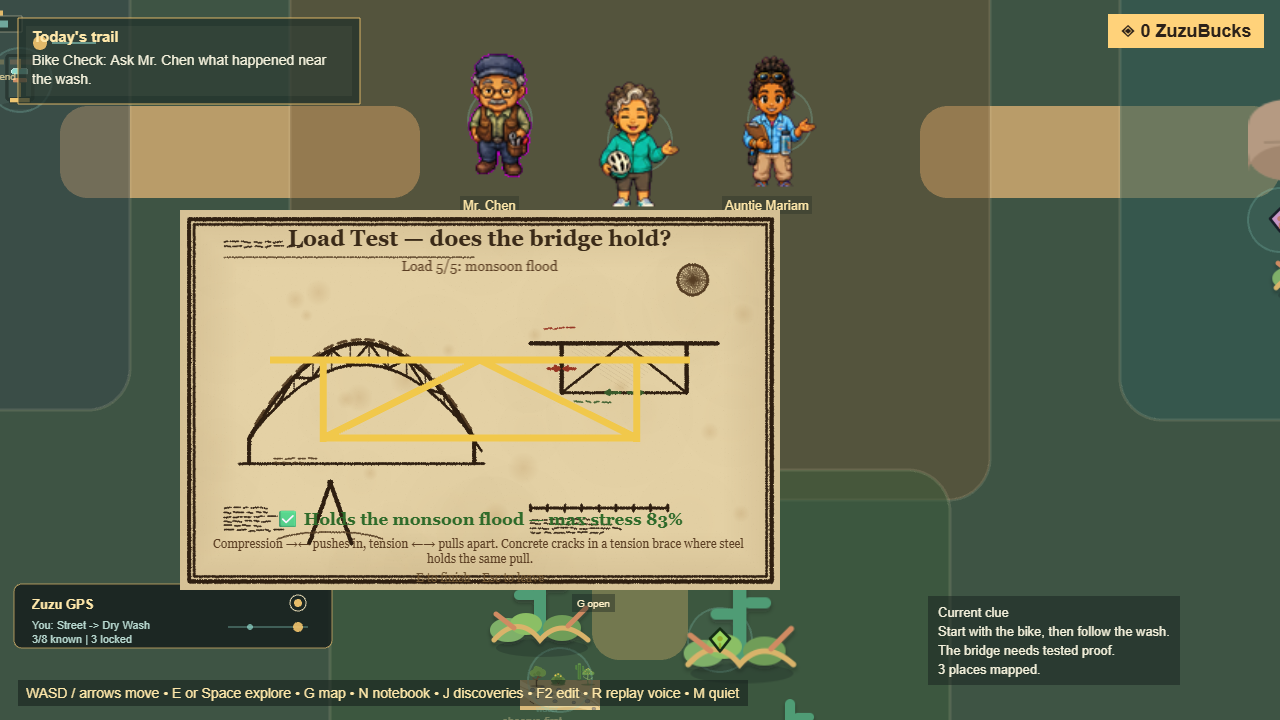
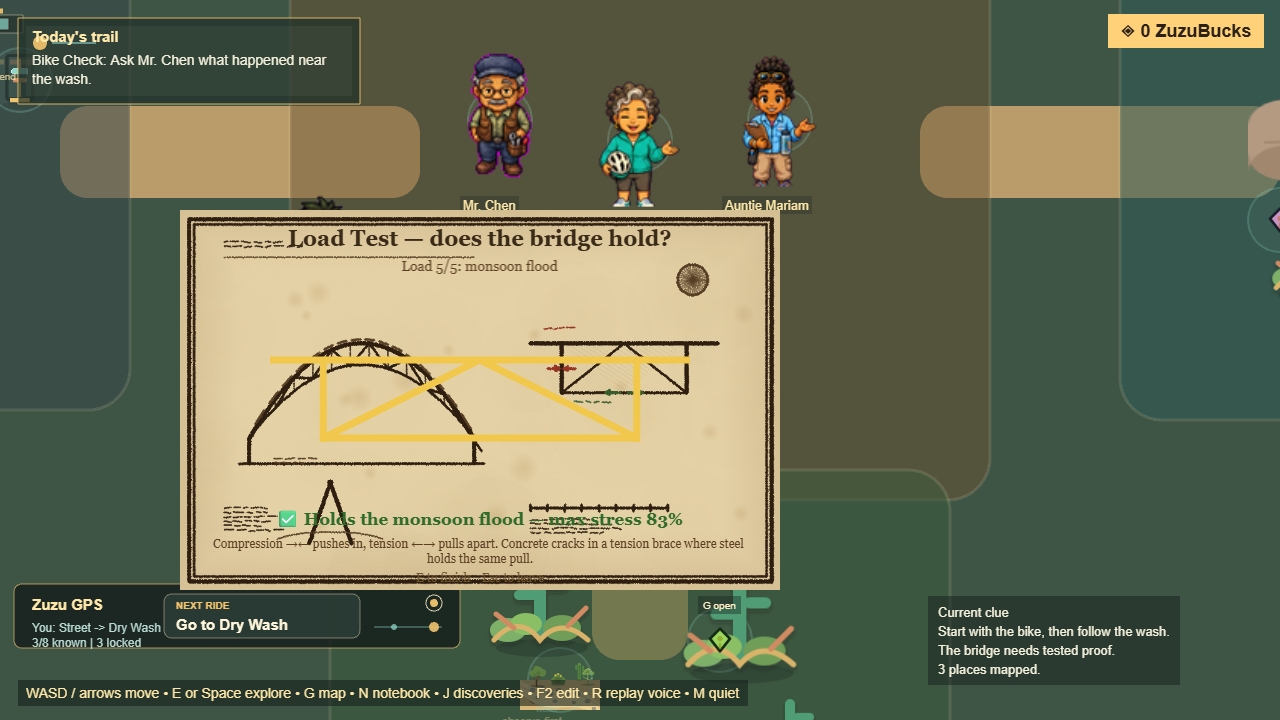
feat(utm): material identity in the player-facing predict-then-test modal
The previous UTM visual work only touched the ambient neighbourhood rig; the
sample the player actually watches in the predict-then-test modal
(PredictionScene) was still a generic blue/green/gold/red bar — every material
looked the same.

- Extracted MATERIAL_VIS + drawMaterialTexture into shared materialVisuals.js
  (NeighborhoodScene now imports it instead of a local copy).
- PredictionScene beam: fill = material family colour + procedural texture
  (beamGrain, tweened with the beam so grain bends/droops under load); verdict
  moved to the beam outline; on failure the bar snaps into material-coloured
  halves with red fracture edges (was two generic red bars).
- Verified against real modal captures: bamboo (green, segmented), steel
  (silver sheen, green 'held' outline), concrete (gray halves snapped in a V,
  red edges). Build clean; phase1-utm-predict + Escape-exit e2e green.

diff --git a/src/game/phaser/scenes/PredictionScene.js b/src/game/phaser/scenes/PredictionScene.js
@@ -2,6 +2,7 @@ import Phaser from 'phaser';
 import { act1Materials } from '../../data/act1/index.js';
 import { narratePanel, narrateText } from '../audio/sceneNarration.js';
 import { ASSET_KEYS } from '../systems/AssetRegistry.js';
+import { materialVis, drawMaterialTexture } from '../systems/materialVisuals.js';
 
 const UTM_MATERIAL_IDS = act1Materials.map((material) => material.id);
 
@@ -38,7 +39,12 @@ export default class PredictionScene extends Phaser.Scene {
     this.sureLabel = this.add.text(0, 158, 'how sure?', { fontFamily: 'Arial', fontSize: '12px', color: '#bcd6ec' }).setOrigin(0.5);
     this.sureDots = [0, 1, 2].map((i) => this.add.circle(-18 + i * 18, 180, 7, 0x4a6076).setStrokeStyle(2, 0x9fc3e0));
 
+    // The sample under test. Its fill now carries MATERIAL IDENTITY (family
+    // colour + a texture in beamGrain) instead of a generic blue bar; the verdict
+    // rides on the outline + the stress-strain curve + the text. beamGrain shares
+    // the beam's tween targets so the grain bends/droops with it under load.
     this.beam = this.add.rectangle(0, 160, 240, 16, 0x9fc3e0).setOrigin(0.5).setVisible(false);
+    this.beamGrain = this.add.graphics({ x: 0, y: 160 }).setVisible(false);
     this.beamLeft = this.add.rectangle(0, 160, 122, 16, 0xff6b6b).setOrigin(1, 0.5).setVisible(false);
     this.beamRight = this.add.rectangle(0, 160, 122, 16, 0xff6b6b).setOrigin(0, 0.5).setVisible(false);
     this.weight = this.add.text(0, 130, 'LOAD', { fontFamily: 'Arial', fontSize: '14px', color: '#ffffff', fontStyle: 'bold' }).setOrigin(0.5).setVisible(false);
@@ -51,7 +57,7 @@ export default class PredictionScene extends Phaser.Scene {
     this.explain = this.add.text(0, 294, '', { fontFamily: 'Arial', fontSize: '13px', color: '#cfe6fb', wordWrap: { width: 520 }, align: 'center' }).setOrigin(0.5, 0);
     this.hint = this.add.text(0, 364, 'Left/Right pick    Up/Down confidence    E test    Esc leave', { fontFamily: 'Arial', fontSize: '12px', color: '#9fc3e0' }).setOrigin(0.5);
 
-    this.panel.add([bg, this.backdrop, this.backdropFrame, this.textBand, this.title, this.chips, this.sureLabel, ...this.sureDots, this.beam, this.beamLeft, this.beamRight, this.weight, this.curveGraphics, this.curveTitle, this.curveCaption, this.verdict, this.explain, this.hint]);
+    this.panel.add([bg, this.backdrop, this.backdropFrame, this.textBand, this.title, this.chips, this.sureLabel, ...this.sureDots, this.beam, this.beamGrain, this.beamLeft, this.beamRight, this.weight, this.curveGraphics, this.curveTitle, this.curveCaption, this.verdict, this.explain, this.hint]);
 
     this.registry.events.on('prediction:start', (materialIds) => this.startFlow(materialIds));
     this.keyHandler = (event) => this.onKey(event);
@@ -73,10 +79,21 @@ export default class PredictionScene extends Phaser.Scene {
   }
 
   _resetBeam() {
-    this.beam.setVisible(true).setPosition(0, 160).setAngle(0).setFillStyle(0x9fc3e0);
+    this.beam.setVisible(true).setPosition(0, 160).setAngle(0).setFillStyle(0x9fc3e0).setStrokeStyle();
     this.beamLeft.setVisible(false).setPosition(0, 160).setAngle(0);
     this.beamRight.setVisible(false).setPosition(0, 160).setAngle(0);
     this.weight.setVisible(false).setY(130);
+    if (this.beamGrain) this.beamGrain.setVisible(false).clear().setPosition(0, 160).setAngle(0);
+  }
+
+  // Paint the current material onto the beam: family fill + procedural texture,
+  // so the player sees WHAT they are about to test, not a generic bar.
+  _dressBeam(materialId) {
+    const vis = materialVis(materialId);
+    this._beamVis = vis;
+    this.beam.setFillStyle(vis.base).setStrokeStyle(3, 0x10243a, 0.55);
+    this.beamGrain.setVisible(true).setPosition(0, 160).setAngle(0);
+    drawMaterialTexture(this.beamGrain, vis, 116, 6, false);
   }
 
   _showChoose() {
@@ -94,6 +111,7 @@ export default class PredictionScene extends Phaser.Scene {
     this.sureLabel.setVisible(true);
     this.sureDots.forEach((d) => d.setVisible(true));
     this._resetBeam();
+    this._dressBeam(id);
     this.verdict.setText('');
     this.explain.setText('');
     this.hint.setText('Left/Right pick    Up/Down confidence    E test    Esc leave');
@@ -157,17 +175,23 @@ export default class PredictionScene extends Phaser.Scene {
   }
 
   _animateBeam(outcome) {
+    // Fill stays the material's colour throughout — the verdict is the outline:
+    // green (held), amber (bent but held), or the snapped red-edged halves.
+    const vis = this._beamVis || materialVis(this.queue[this.index]);
     this.tweens.add({ targets: this.weight, y: 160, duration: 260, ease: 'Quad.easeIn', yoyo: outcome !== 'break', hold: 40 });
     if (outcome === 'hold') {
-      this.beam.setFillStyle(0x9affb0);
-      this.tweens.add({ targets: this.beam, y: 166, duration: 200, ease: 'Quad.easeOut', yoyo: true });
+      this.beam.setStrokeStyle(4, 0x9affb0, 1);
+      this.tweens.add({ targets: [this.beam, this.beamGrain], y: 166, duration: 200, ease: 'Quad.easeOut', yoyo: true });
     } else if (outcome === 'bend') {
-      this.beam.setFillStyle(0xffd27f);
-      this.tweens.add({ targets: this.beam, angle: 7, y: 168, duration: 320, ease: 'Sine.easeOut', yoyo: true, hold: 120 });
+      this.beam.setStrokeStyle(4, 0xffd27f, 1);
+      this.tweens.add({ targets: [this.beam, this.beamGrain], angle: 7, y: 168, duration: 320, ease: 'Sine.easeOut', yoyo: true, hold: 120 });
     } else {
       this.beam.setVisible(false);
-      this.beamLeft.setVisible(true).setPosition(0, 160);
-      this.beamRight.setVisible(true).setPosition(0, 160);
+      this.beamGrain.setVisible(false);
+      // The sample snaps — the broken halves keep the material colour with a raw
+      // red fracture edge, so the player sees WHAT failed, not just a red bar.
+      this.beamLeft.setVisible(true).setPosition(0, 160).setFillStyle(vis.base).setStrokeStyle(3, 0x9a2f1a, 1);
+      this.beamRight.setVisible(true).setPosition(0, 160).setFillStyle(vis.base).setStrokeStyle(3, 0x9a2f1a, 1);
       this.tweens.add({ targets: this.beamLeft, angle: 24, y: 178, duration: 300, ease: 'Back.easeOut' });
       this.tweens.add({ targets: this.beamRight, angle: -24, y: 178, duration: 300, ease: 'Back.easeOut' });
     }
@@ -243,7 +267,7 @@ export default class PredictionScene extends Phaser.Scene {
     this.chips.setVisible(false);
     this.sureLabel.setVisible(false);
     this.sureDots.forEach((d) => d.setVisible(false));
-    this.beam.setVisible(false); this.beamLeft.setVisible(false); this.beamRight.setVisible(false); this.weight.setVisible(false);
+    this.beam.setVisible(false); this.beamGrain.setVisible(false); this.beamLeft.setVisible(false); this.beamRight.setVisible(false); this.weight.setVisible(false);
     const held = this.results.filter((r) => r.outcome !== 'break').length;
     const failed = this.results.filter((r) => r.outcome === 'break').length;
     const right = this.results.filter((r) => r.matched).length;

diff --git a/src/game/phaser/systems/materialVisuals.js b/src/game/phaser/systems/materialVisuals.js
@@ -1,0 +1,85 @@
+// Shared material-identity visuals for the UTM (load-testing machine). The
+// sample used to render as one flat bar tinted only by pass/fail, so steel,
+// balsa, bamboo, and concrete were indistinguishable — the test taught nothing
+// about WHY a material holds or fails. Each material now reads as its own family
+// (warm pixel palette) with a procedural surface texture; failure is curve-driven
+// (brittle -> crack, ductile -> bend). Procedural primitives only (no painted
+// asset), so this is a freeze-safe clarity edit. Used by both PredictionScene
+// (the player-facing predict-then-test modal) and the ambient neighbourhood rig.
+export const MATERIAL_VIS = {
+  balsa: { base: 0xe7d6a2, detail: 0xc8b173, pattern: 'grain' },
+  pine: { base: 0xd2a062, detail: 0xa06a33, pattern: 'grain' },
+  bamboo: { base: 0xc4cf72, detail: 0x88a23e, pattern: 'segments' },
+  brick: { base: 0xb15538, detail: 0x7c3320, pattern: 'courses' },
+  concrete: { base: 0xb3ac9c, detail: 0x827b6b, pattern: 'speckle' },
+  iron: { base: 0x8a8c92, detail: 0x585b61, pattern: 'sheen' },
+  steel: { base: 0xc1c7d0, detail: 0x8b929c, pattern: 'sheen' },
+  carbon_fiber: { base: 0x33373d, detail: 0x6b7078, pattern: 'weave' },
+  _default: { base: 0xb9c7bf, detail: 0x6f8079, pattern: 'grain' },
+};
+
+export function materialVis(id) {
+  return MATERIAL_VIS[id] || MATERIAL_VIS._default;
+}
+
+// Draw the material's surface texture (and, if it gave way, a brittle crack)
+// onto a Phaser Graphics, centred at the graphics origin and spanning the given
+// half-extents. Width-aware so it reads at both the small ambient prop scale and
+// the large modal beam. The graphics is expected to share the sample's
+// squish/rotation so the texture deforms with the bar.
+export function drawMaterialTexture(g, vis, halfW, halfH, cracked = false) {
+  if (!g) return;
+  g.clear();
+  const big = halfW > 40;
+  const w = Math.max(2, halfW - 2);
+  const h = Math.max(1, halfH - 1);
+  const lineW = big ? 2 : 1;
+  g.lineStyle(lineW, vis.detail, 0.9);
+  switch (vis.pattern) {
+    case 'segments': { // bamboo — node bands across the culm
+      const step = Math.max(14, (w * 2) / 4);
+      for (let x = -w + step; x < w; x += step) g.lineBetween(x, -h, x, h);
+      break;
+    }
+    case 'courses': { // brick — mortar joints, offset top/bottom courses
+      g.lineBetween(-w, 0, w, 0);
+      const step = Math.max(16, (w * 2) / 6);
+      for (let x = -w + step; x < w; x += step) {
+        g.lineBetween(x, -h, x, 0);
+        g.lineBetween(x - step / 2, 0, x - step / 2, h);
+      }
+      break;
+    }
+    case 'speckle': { // concrete — aggregate flecks
+      g.fillStyle(vis.detail, 0.85);
+      const n = Math.max(5, Math.round(w / 8));
+      for (let i = 0; i < n; i += 1) {
+        const x = -w + ((i + 0.5) / n) * (w * 2);
+        const y = ((i % 3) - 1) * (h * 0.6);
+        g.fillCircle(x, y, lineW);
+      }
+      break;
+    }
+    case 'sheen': { // metal — bright highlight band over a darker base line
+      g.lineStyle(Math.max(2, lineW), 0xffffff, 0.45); g.lineBetween(-w, -h * 0.5, w, -h * 0.5);
+      g.lineStyle(lineW, vis.detail, 0.8); g.lineBetween(-w, h * 0.6, w, h * 0.6);
+      break;
+    }
+    case 'weave': { // carbon fibre — fine parallel tows
+      const step = big ? 10 : 5;
+      for (let x = -w; x <= w; x += step) g.lineBetween(x, -h, x, h);
+      break;
+    }
+    default: { // grain — wood fibres run lengthwise
+      g.lineBetween(-w, -h * 0.4, w, -h * 0.4);
+      g.lineBetween(-w, h * 0.5, w, h * 0.5);
+      if (big) g.lineBetween(-w, 0, w, 0);
+    }
+  }
+  if (cracked) { // jagged fracture — the brittle-snap teaching beat
+    g.lineStyle(Math.max(1.6, lineW), 0x9a2f1a, 1);
+    g.beginPath();
+    g.moveTo(0, -h - 2); g.lineTo(-3, -1); g.lineTo(3, 2); g.lineTo(-1, h + 2);
+    g.strokePath();
+  }
+}

diff --git a/src/game/phaser/scenes/NeighborhoodScene.js b/src/game/phaser/scenes/NeighborhoodScene.js
@@ -5,27 +5,10 @@ import { configureNeighborhoodCamera } from '../systems/CameraSystem.js';
 import { installCharacterArtAuditBridge } from '../systems/CharacterArtAuditBridge.js';
 import { act1Locations } from '../../data/act1/index.js';
 import { loadLayout } from '../../../renderer/game/utils/loadLayout.js';
+import { MATERIAL_VIS, drawMaterialTexture } from '../systems/materialVisuals.js';
 
 const USE_PROVENANCED_ENVIRONMENT_ASSETS =
   import.meta.env?.VITE_USE_PROVENANCED_ENVIRONMENT_ASSETS === 'true';
-
-// Per-material look for the UTM (load-testing machine) sample. Previously every
-// material rendered as the same flat teal bar tinted only by pass/fail — steel
-// and balsa were indistinguishable. Each material now reads as its own family
-// (warm pixel palette) with a simple texture, so the *identity* is visible while
-// the verdict still rides on the sample outline + comparison marks. `pattern` is
-// drawn procedurally (no painted asset), so this is a freeze-safe clarity edit.
-const MATERIAL_VIS = {
-  balsa: { base: 0xe7d6a2, detail: 0xc8b173, pattern: 'grain' },
-  pine: { base: 0xd2a062, detail: 0xa06a33, pattern: 'grain' },
-  bamboo: { base: 0xc4cf72, detail: 0x88a23e, pattern: 'segments' },
-  brick: { base: 0xb15538, detail: 0x7c3320, pattern: 'courses' },
-  concrete: { base: 0xb3ac9c, detail: 0x827b6b, pattern: 'speckle' },
-  iron: { base: 0x8a8c92, detail: 0x585b61, pattern: 'sheen' },
-  steel: { base: 0xc1c7d0, detail: 0x8b929c, pattern: 'sheen' },
-  carbon_fiber: { base: 0x33373d, detail: 0x6b7078, pattern: 'weave' },
-  _default: { base: 0xb9c7bf, detail: 0x6f8079, pattern: 'grain' },
-};
 
 export default class NeighborhoodScene extends Phaser.Scene {
   constructor() {
@@ -1147,41 +1130,7 @@ export default class NeighborhoodScene extends Phaser.Scene {
   // brittle) onto the grain overlay, in the sample's local space (46x12,
   // centred). Kept to a few primitives so it reads at the in-world zoom.
   _drawMaterialTexture(vis, cracked) {
-    const g = this.utmVizGrain;
-    if (!g) return;
-    g.clear();
-    const w = 20; const h = 4; // inset half-extents within the 46x12 sample
-    g.lineStyle(1, vis.detail, 0.9);
-    switch (vis.pattern) {
-      case 'segments': // bamboo — node bands across the culm
-        [-10, 4].forEach((x) => g.lineBetween(x, -h, x, h));
-        break;
-      case 'courses': // brick — mortar joints, offset top/bottom courses
-        g.lineBetween(-w, 0, w, 0);
-        [-12, 0, 12].forEach((x) => g.lineBetween(x, -h, x, 0));
-        [-6, 6].forEach((x) => g.lineBetween(x, 0, x, h));
-        break;
-      case 'speckle': // concrete — aggregate flecks
-        g.fillStyle(vis.detail, 0.85);
-        [[-12, -1], [-4, 2], [5, -2], [12, 1], [0, -2]].forEach(([x, y]) => g.fillCircle(x, y, 1));
-        break;
-      case 'sheen': // metal — bright highlight band over a darker base line
-        g.lineStyle(2, 0xffffff, 0.45); g.lineBetween(-w, -h * 0.5, w, -h * 0.5);
-        g.lineStyle(1, vis.detail, 0.8); g.lineBetween(-w, h * 0.6, w, h * 0.6);
-        break;
-      case 'weave': // carbon fibre — fine parallel tows
-        for (let x = -w; x <= w; x += 5) g.lineBetween(x, -h, x, h);
-        break;
-      default: // grain — wood fibres run lengthwise
-        g.lineBetween(-w, -h * 0.4, w, -h * 0.4);
-        g.lineBetween(-w, h * 0.5, w, h * 0.5);
-    }
-    if (cracked) { // jagged fracture — the brittle-snap teaching beat
-      g.lineStyle(1.6, 0x9a2f1a, 1);
-      g.beginPath();
-      g.moveTo(0, -h - 2); g.lineTo(-3, -1); g.lineTo(3, 2); g.lineTo(-1, h + 2);
-      g.strokePath();
-    }
+    drawMaterialTexture(this.utmVizGrain, vis, 20, 4, cracked);
   }
 
   resetUtmVisualizer() {

diff --git a/artifacts/bikebrowser/decision_log.md b/artifacts/bikebrowser/decision_log.md
@@ -29,6 +29,7 @@ Append-only record of material decisions and their rationale (arc.md-evaluated).
 | 21 | **Act 1 readiness audit** (8 docs) under final_readiness/ | new-player lens; #1 finding: emotional setups are optional → payoffs vary by engagement | final_readiness/ |
 | 22 | **GO — release Act 1 for external playtest now** (option A) | stable + complete + emotionally legible; the open questions are playtest questions (engagement, payoff) that polishing can't answer; no Critical art or blockers | act1_go_no_go.md |
 | 25 | **UTM material sample now reads per-material** — each of the 8 materials renders with its own family colour + texture (wood grain / bamboo nodes / brick courses / concrete speckle / metal sheen / carbon weave), and failure is curve-driven (brittle → red crack & rigid; ductile → bend), verdict moved to the sample outline + comparison marks | the sample was one flat band tinted only by pass/fail — steel and balsa looked identical, so the visual taught nothing; identity + brittle-vs-ductile failure makes "test before you trust" *visible*. Procedural primitives only (no painted-asset swap) → freeze-safe clarity edit, not a human-gated live-asset replacement | this turn |
+| 25a | **Extended material identity to the player-facing predict-then-test modal (PredictionScene)** — extracted MATERIAL_VIS + drawMaterialTexture into a shared `materialVisuals.js`; the test beam now renders the material's family colour + texture (was a generic blue bar), verdict on the outline, and a snap into material-coloured halves with red fracture edges on failure | #25 improved only the *ambient* neighbourhood rig; the bar the player actually watches when testing is in PredictionScene — it still looked generic ("it still shows generic objects"). Same procedural, freeze-safe approach. Verified via real-modal captures (bamboo green-segmented, steel silver, concrete snapped gray V); phase1-utm-predict + Escape-exit e2e green; one predict-reachability failure is a pre-existing walk-navigation timeout (fails identically on baseline) | this turn |
 | 24 | **Dialogue is never a trap** — Esc + a visible ✕ button + "Esc leaves" hint exit any conversation from any state; leaving applies the dialogue's *base* completions | bare-Esc would softlock (Esc-ing a quest-critical talk leaves its objective undone) and, since dialogue now freezes the player, freeze them in place; the graceful-leave preserves progress so the player is never trapped/frozen/softlocked | this turn |
 | 23 | **Narration = storyteller, not screen reader** | added `filterNarration()` (strips control/button hints + chrome from panel/scene narration) + excluded the speaker label in the Community Crossing; preserves the child-literacy read-aloud (dialogue + educational content untouched). Freeze-safe accessibility/pacing improvement. ~20%/string redundancy removed, 0% story loss | narration_audit.md |
 
